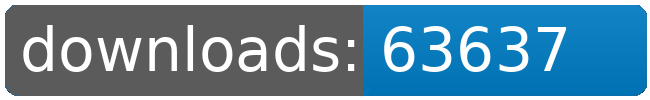
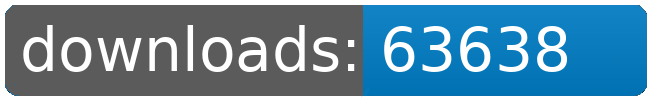
dl log written

Changed region(s): [[0.8, 0.24, 0.8923, 0.72]]

diff --git a/README.md b/README.md
@@ -32,8 +32,8 @@
 		<td>7593</td>
 		<td>7603</td>
 		<td>7614</td>
-		<td>7629</td>
-		<td>+ 15</td>
+		<td>7630</td>
+		<td>+ 16</td>
 	</tr>
 	<tr>
 		<td>Fundamental.Outfit.Expansion</td>
@@ -120,8 +120,8 @@
 		<td></td>
 		<td></td>
 		<td></td>
-		<td>63637</td>
-		<td>96</td>
+		<td>63638</td>
+		<td>97</td>
 	</tr>
 </table>
 </sub></sup>
@@ -190,8 +190,8 @@
 		<td>7593</td>
 		<td>7603</td>
 		<td>7614</td>
-		<td>7629</td>
-		<td>+ 15</td>
+		<td>7630</td>
+		<td>+ 16</td>
 	</tr>
 	<tr>
 		<td>Solar.Sails</td>
@@ -245,8 +245,8 @@
 		<td></td>
 		<td></td>
 		<td></td>
-		<td>63637</td>
-		<td>96</td>
+		<td>63638</td>
+		<td>97</td>
 	</tr>
 </table>
 </sub></sup>
